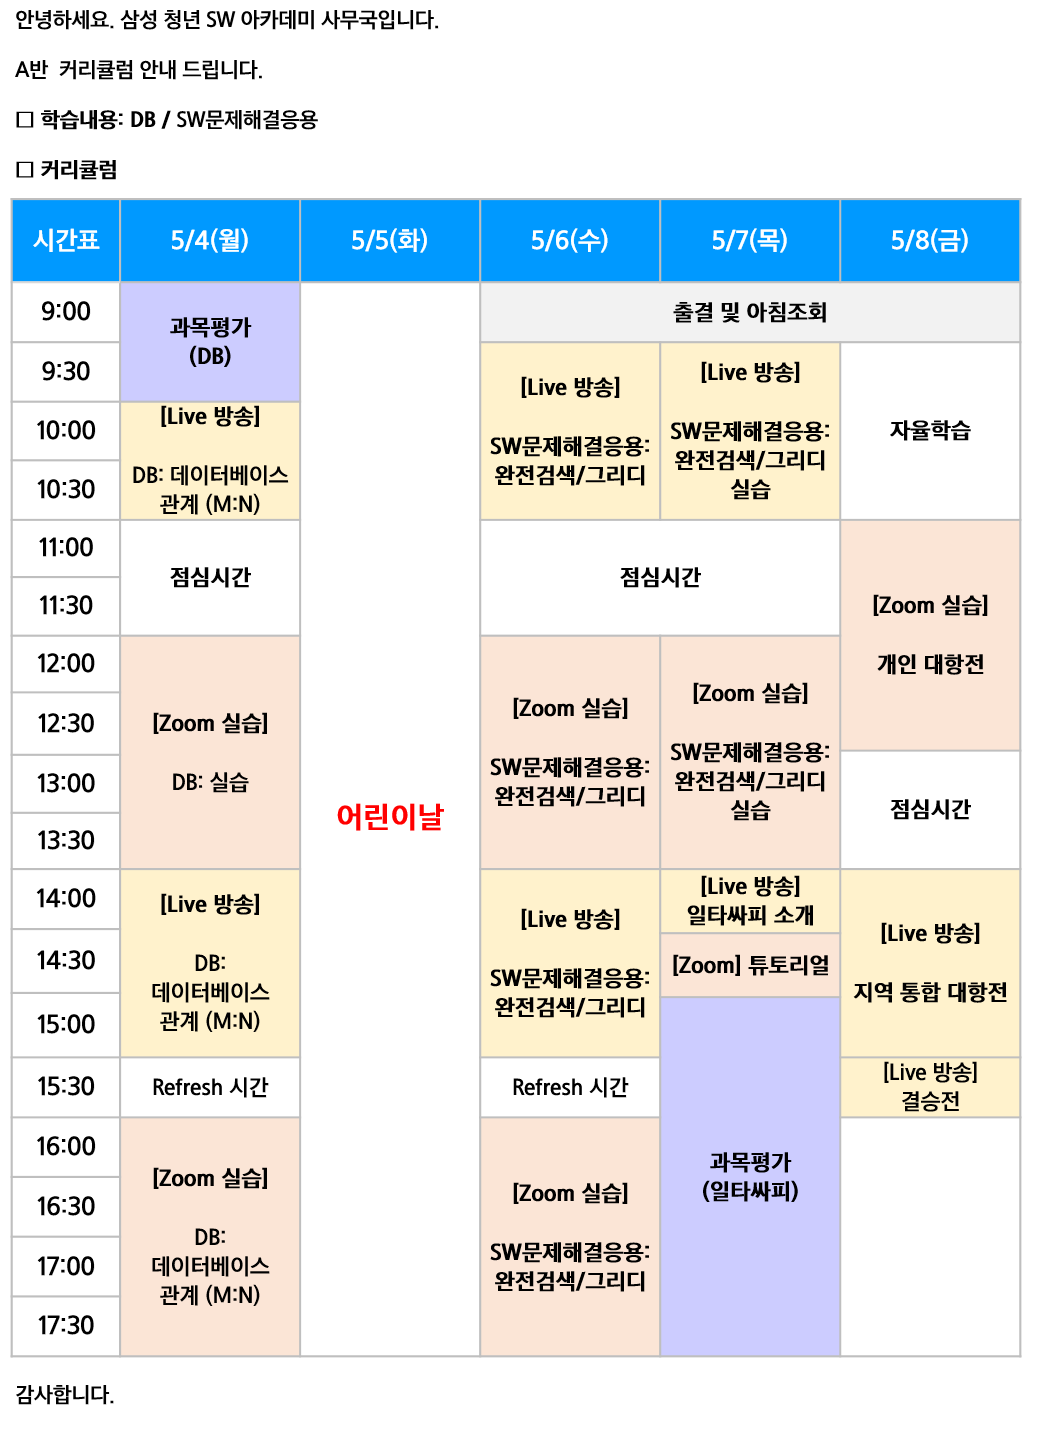
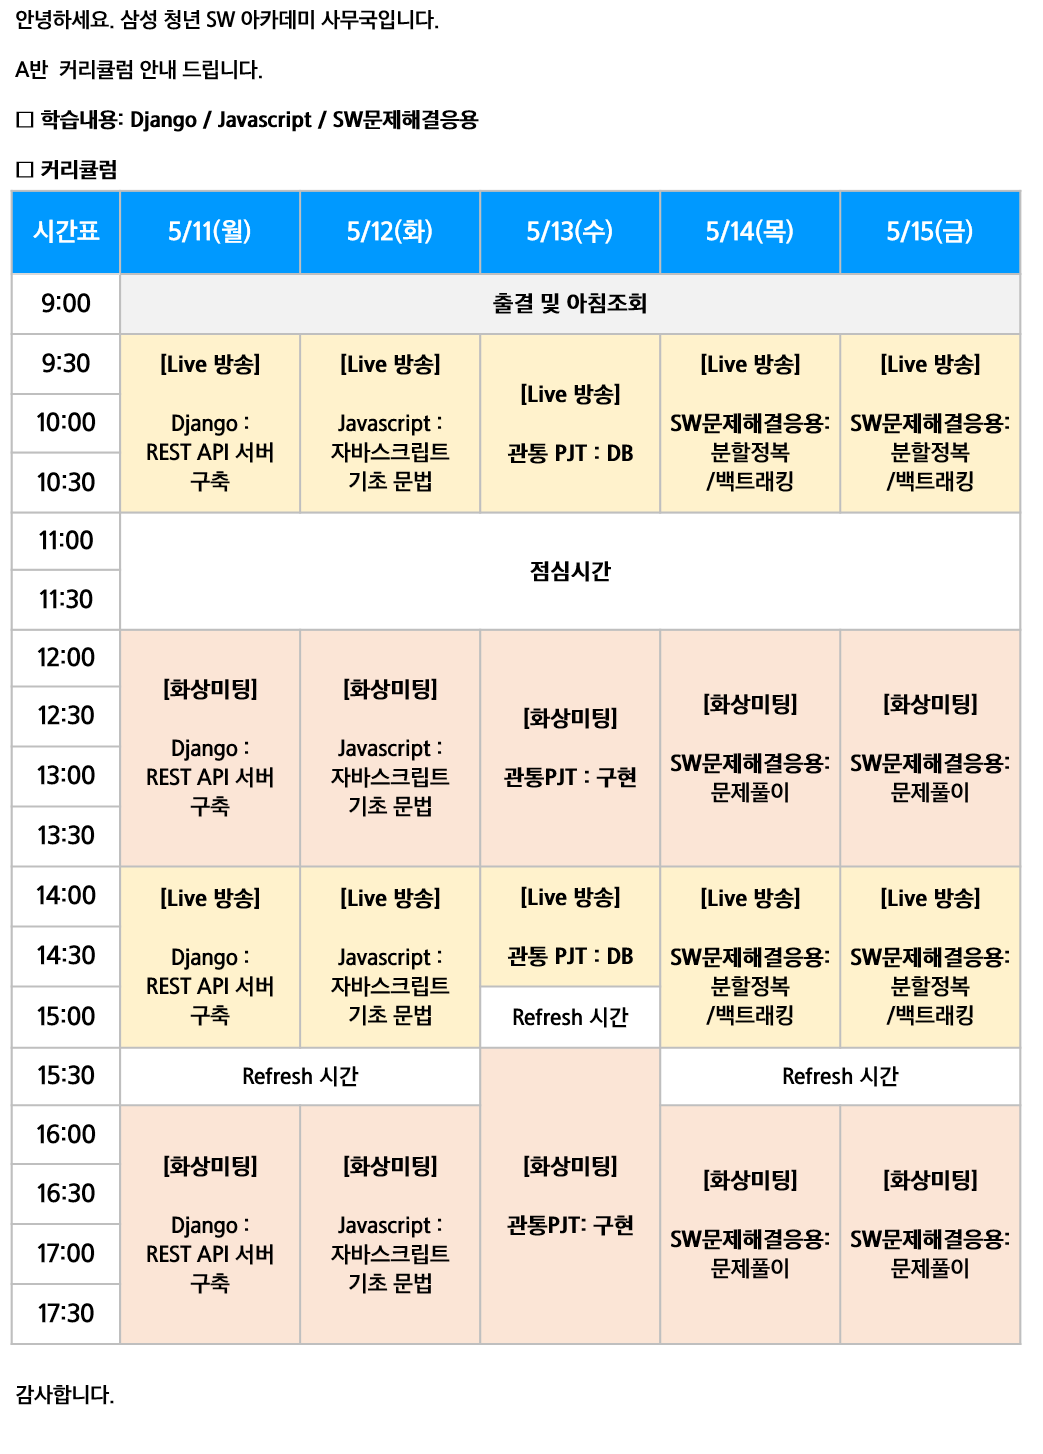
May 2nd week curriculum updated

diff --git a/basic/templates/basic/home.html b/basic/templates/basic/home.html
@@ -10,8 +10,8 @@
 {% endblock %}
 
 {% block contents %}
-<h1 class="imgcaption">5월 1주차 커리큘럼</h1>
+<h1 class="imgcaption">5월 2주차 커리큘럼</h1>
 <div class="imgblock">
-  <img src="{% static 'curriculum/curriculum.png' %}" alt="4월 5주차 커리큘럼" class="imgfile">
+  <img src="{% static 'curriculum/curriculum.png' %}" alt="5월 2주차 커리큘럼" class="imgfile">
 </div>
 {% endblock %}
